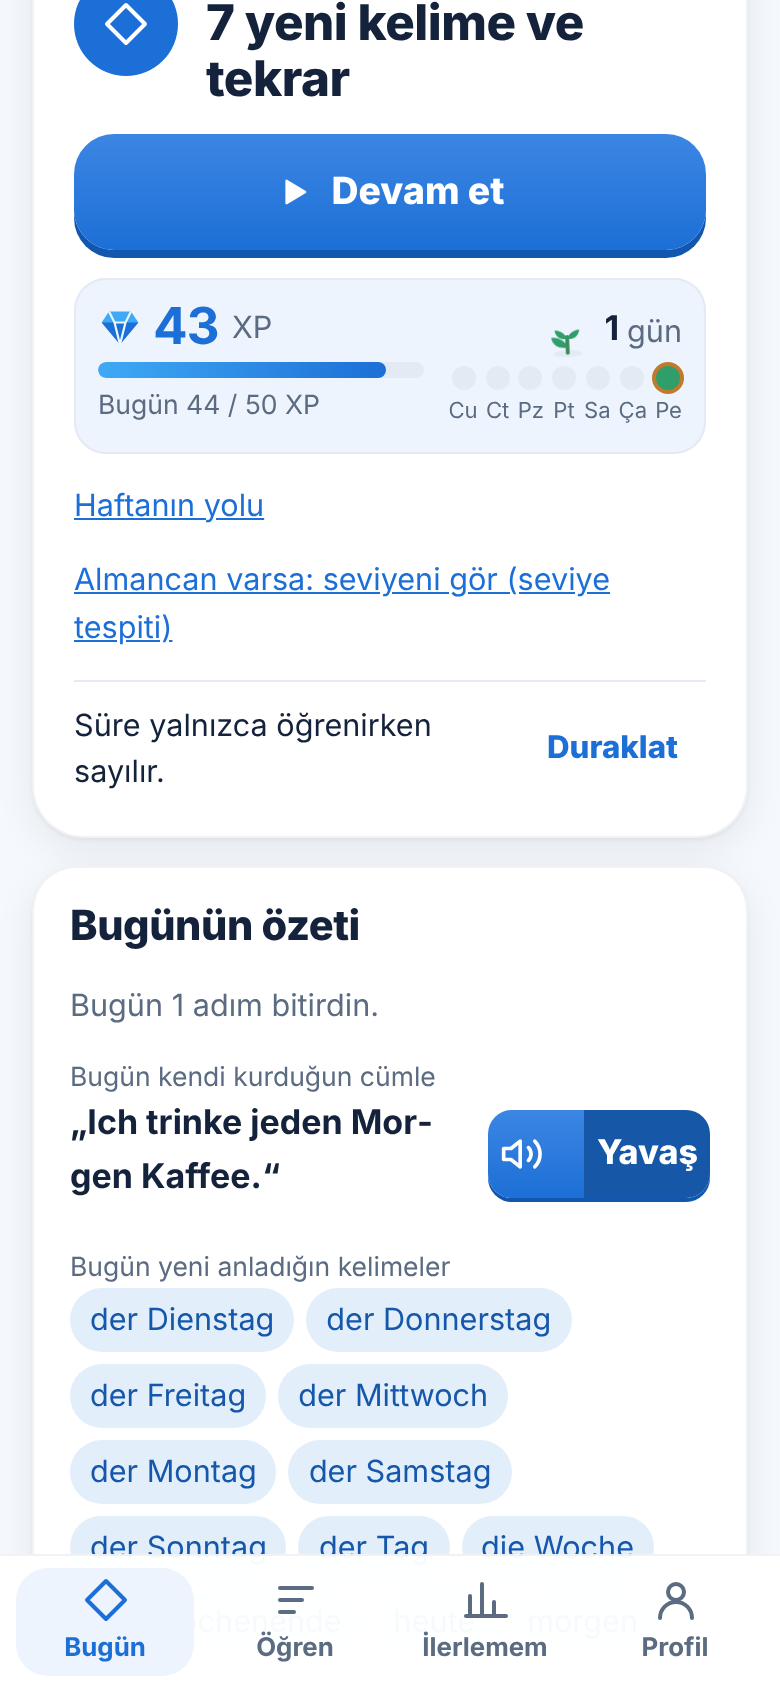
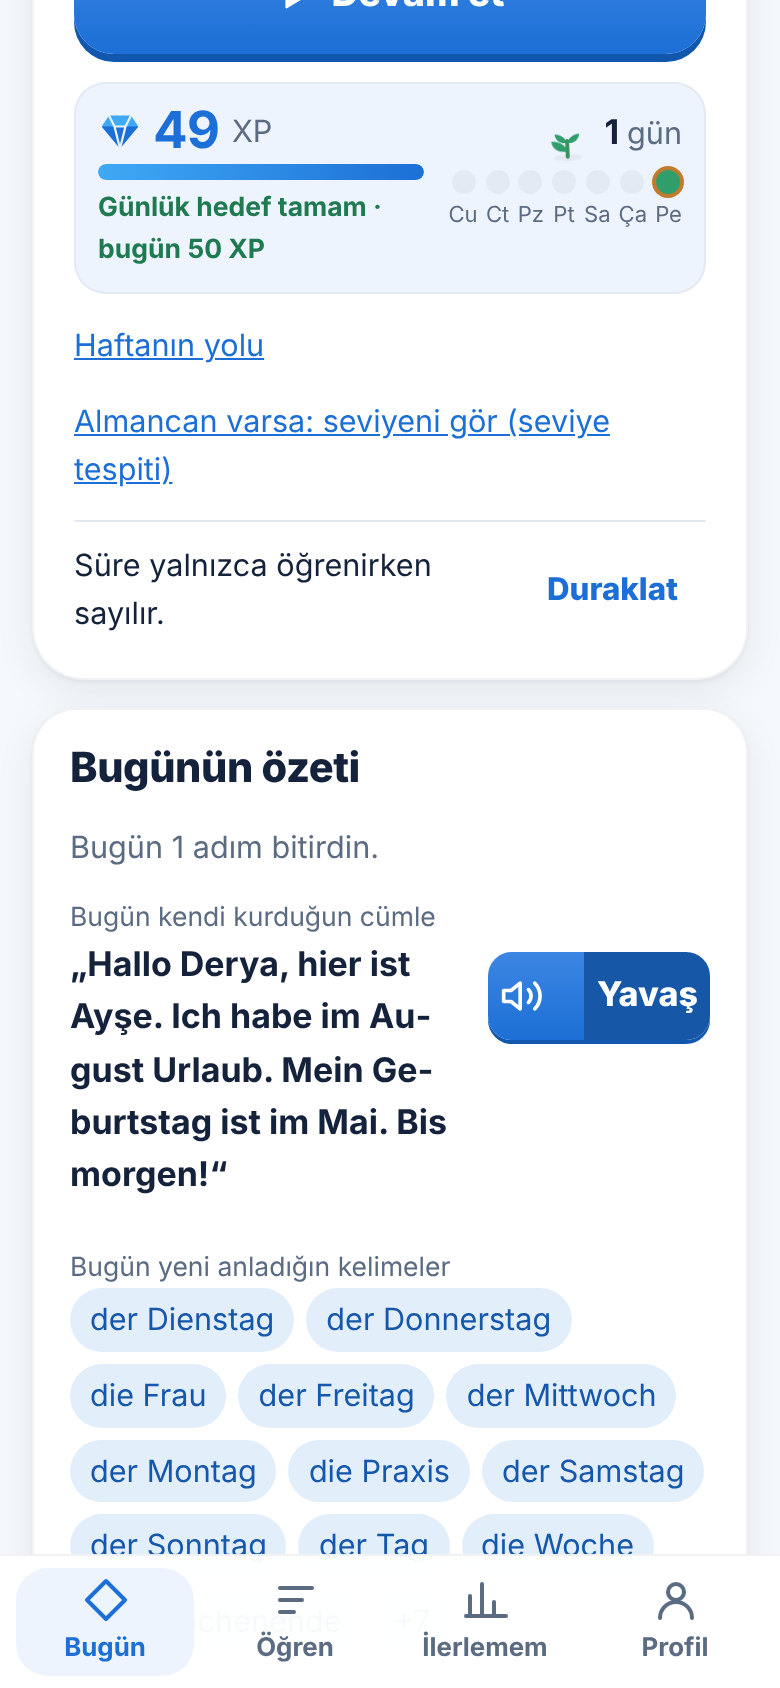
M1 B3: inceleme #93 1. tur — gün sonuna yalnızca doğrulanmış cümle, 'N. gün bitti' ve kutlama günün bitiş kaydına bağlı, bırakma noktası DOM gözcüsüyle (zamanlayıcı yok), e2e tam nokta ve kontrolden geçen mesajı ölçer; ekran görüntüleri yenilendi
#58 B3 · PM-052 A.8 · İmza: A4, D15

Claude-Session: https://claude.ai/code/session_016gishG3oMjbKiLi4Fij94B

diff --git a/web/src/services/kullanim.ts b/web/src/services/kullanim.ts
@@ -50,22 +50,22 @@ export function kullanimIzle(rota: () => { name: string; id?: string; day?: numb
   void temizle();
   let gizlendi = 0;
   let onceki = rotaAdimi(rota());
-  // nokta önbelleği: rota olayı geldiğinde yeni ekran çoktan çizilmiş olabilir; adım ekranındayken saniyede bir ve her
-  // dokunuştan sonra okunur
+  // nokta önbelleği: rota olayı geldiğinde yeni ekran çoktan çizilmiş olabilir; ilerleme çubuğu ya da ekran konumu her
+  // değiştiğinde (MutationObserver) okunur — zamanlayıcı yok, nokta bir geride kalmaz (inceleme #93 P1-4)
   let sonNokta: string | undefined;
-  const oku = () => { if (onceki) { const n = ekranNoktasi(); if (n) sonNokta = n; } };
-  const zaman = setInterval(oku, 1000);
-  const dokun = () => setTimeout(oku, 300);
+  // yalnızca adres hâlâ bu adımdaysa: başka adım ekranına geçerken yeni ekranın sayısı eski adıma yazılmaz
+  const oku = () => { if (onceki && rotaAdimi(rota()) === onceki) { const n = ekranNoktasi(); if (n) sonNokta = n; } };
+  const gozcu = typeof MutationObserver !== "undefined" ? new MutationObserver(oku) : null;
+  gozcu?.observe(document.body, { subtree: true, childList: true, attributes: true, attributeFilter: ["aria-valuenow", "data-pos"] });
   const cik = (adim: string | null, nokta?: string) => { if (adim) void kullanimYaz({ t: "cik", adim, nokta }); };
-  const rotaDegisti = () => { const yeni = rotaAdimi(rota()); if (yeni === onceki) return; cik(onceki, sonNokta); onceki = yeni; sonNokta = undefined; };
+  const rotaDegisti = () => { const yeni = rotaAdimi(rota()); if (yeni === onceki) return; cik(onceki, sonNokta); onceki = yeni; sonNokta = undefined; oku(); };
   const gorunurluk = () => {
     if (document.visibilityState === "hidden") { gizlendi = Date.now(); oku(); cik(onceki, sonNokta); }
     else if (gizlendi && Date.now() - gizlendi > 30 * 60_000) void kullanimYaz({ t: "ac" });
   };
   addEventListener("hashchange", rotaDegisti, true);
-  addEventListener("pointerup", dokun, true);
   document.addEventListener("visibilitychange", gorunurluk);
-  return () => { clearInterval(zaman); removeEventListener("hashchange", rotaDegisti, true); removeEventListener("pointerup", dokun, true); document.removeEventListener("visibilitychange", gorunurluk); };
+  return () => { gozcu?.disconnect(); removeEventListener("hashchange", rotaDegisti, true); document.removeEventListener("visibilitychange", gorunurluk); };
 }
 
 async function temizle() {

diff --git a/web/src/ui/gunsonu.tsx b/web/src/ui/gunsonu.tsx
@@ -4,23 +4,15 @@
  */
 import { useEffect, useState } from "preact/hooks";
 import type { Plan } from "../screens/Yol.tsx";
-import { getMeta, setMeta, tanitilanlar } from "../data/db.ts";
+import { getMeta, metaPrefix, setMeta, tanitilanlar } from "../data/db.ts";
 import { loadLexicon } from "../services/content.ts";
 import { kullanimGunleri, kullanimOku } from "../services/kullanim.ts";
-import { adimEtiketi, gununCumlesi, type KullanimOzet } from "../core/kullanim.ts";
+import { adimEtiketi, bugunBitenGun, gununCumlesi, type KullanimOzet } from "../core/kullanim.ts";
 import { yerelGun } from "../core/gun.ts";
 import { ListenButton } from "./kit.tsx";
 import { Kutlama } from "./solen.tsx";
 
 const KELIME_SINIR = 12;
-
-/** Bugün biten M1 günü: günün hazır adımlarından biri bugün bitirildiyse ve gün bittiyse (en büyük gün) */
-export function bugunBitenGun(plan: Plan | null, bitenler: string[]): number | null {
-  if (!plan) return null;
-  const bitti = (a: { id: string; tur: string }) => bitenler.includes(a.id) || bitenler.includes(`${a.tur}:${a.id}`);
-  const g = plan.gunler.filter((x) => x.durum === "bitti" && x.adimlar.some((a) => a.hazir && bitti(a))).map((x) => x.day);
-  return g.length ? Math.max(...g) : null;
-}
 
 export function GunSonu({ plan }: { plan: Plan | null }) {
   const [oz, setOz] = useState<KullanimOzet | null>(null);
@@ -44,7 +36,9 @@ export function GunSonu({ plan }: { plan: Plan | null }) {
     })().catch(() => { /* özet isteğe bağlı: hata ekranı göstermez */ });
     return () => { iptal = true; };
   }, [bugun]);
-  const gun = oz ? bugunBitenGun(plan, oz.bitenler) : null;
+  const [bitisler, setBitisler] = useState<Record<number, string | undefined> | null>(null);
+  useEffect(() => { void metaPrefix<string>("m1:gun:").then((x) => setBitisler(Object.fromEntries(x.map((k) => [Number(k.key.slice(7)), k.value])))); }, [plan]);
+  const gun = oz && bitisler && oz.bitenler.length ? bugunBitenGun(plan?.gunler ?? [], bitisler, bugun) : null;
   // kutlama bir kez: gün bittiğinde ilk görüşte (aynı gün yeniden açılınca yok)
   useEffect(() => {
     if (!gun) return;

diff --git a/web/src/screens/Garden.tsx b/web/src/screens/Garden.tsx
@@ -185,7 +185,6 @@ function Question({ q, l, all, onDone }: { q: GardenQ; l: Lexeme; all: Lexeme[];
       const c = ownSentenceCheck(l, a);
       // kısa cümle yeniden yazdırılır (ceza yok); kelimeyi göremediysek yalnızca not düşer, karar öğrencinin (inceleme #59 P1-1)
       if (c === "short") { setShortNote(true); return; }
-      void cumleKaydet(a, "bahce"); // #58 B3: gün sonunda "bugün kurduğun cümle"
       setOwnNote(c === "missing"); setSelfCheck(a); return;
     }
     const acc = accepted(l, q.type, q.ex);
@@ -216,7 +215,10 @@ function Question({ q, l, all, onDone }: { q: GardenQ; l: Lexeme; all: Lexeme[];
           {ownNote && <div class="small" data-test="own-missing">Cümlende bu kelimeyi göremedim. Çekimli hâlini kullandıysan doğru olabilir.</div>}
           Cümlen kelimeyi doğru kullanıyor mu? Bir kez yüksek sesle oku.{ex && <> Örnek: <span lang="de">{ex.de}</span></>}</FeedbackBand></section>
       <ActionBar>
-        <button class="btn primary block" data-test="own-ok" onClick={() => onDone({ ok: true, answer: selfCheck }, "hinted")}>Evet, doğru kurdum</button>
+        <button class="btn primary block" data-test="own-ok" onClick={() => {
+          // #58 B3: gün sonu özetine yalnızca öğrencinin doğru dediği ve kelimesi görünen cümle (inceleme #93 P1-3)
+          if (selfCheck && !ownNote) void cumleKaydet(selfCheck, "bahce");
+          onDone({ ok: true, answer: selfCheck }, "hinted"); }}>Evet, doğru kurdum</button>
         <button class="btn block" data-test="own-unsure" onClick={() => onDone({ ok: true, answer: selfCheck }, null)}>Emin değilim, geç</button>
       </ActionBar>
     </div>

diff --git a/web/src/core/kullanim.test.ts b/web/src/core/kullanim.test.ts
@@ -1,5 +1,5 @@
 import { describe, expect, it } from "vitest";
-import { adimEtiketi, eskiMi, gununCumlesi, olayEkle, ozetle, rotaAdimi, KULLANIM_SINIR, type KullanimGun } from "./kullanim.ts";
+import { adimEtiketi, bugunBitenGun, eskiMi, gununCumlesi, olayEkle, ozetle, rotaAdimi, KULLANIM_SINIR, type KullanimGun } from "./kullanim.ts";
 
 const at = "2026-11-19T10:00:00Z";
 const bos = (): KullanimGun => ({ gun: "2026-11-19", olaylar: [] });
@@ -47,5 +47,12 @@ describe("yerel kullanım ölçümü (#58 B3)", () => {
     expect(eskiMi("2026-10-01", now)).toBe(true);
     expect(eskiMi("2026-11-10", now)).toBe(false);
     expect(eskiMi("bozuk", now)).toBe(true);
+  });
+  it("gün sonu başlığı: yalnızca bugün biten gün; eski günün adımını bugün tekrar etmek 'N. gün bitti' demez", () => {
+    const gunler = [{ day: 1, durum: "bitti" }, { day: 2, durum: "bitti" }, { day: 3, durum: "simdi" }];
+    const dun = new Date(2026, 10, 18, 10).toISOString(), bugunIso = new Date(2026, 10, 19, 10).toISOString();
+    expect(bugunBitenGun(gunler, { 1: dun, 2: dun }, "2026-11-19")).toBeNull();
+    expect(bugunBitenGun(gunler, { 1: dun, 2: bugunIso }, "2026-11-19")).toBe(2);
+    expect(bugunBitenGun(gunler, { 1: dun }, "2026-11-19")).toBe(2); // kaydı henüz yazılmamış bitmiş gün
   });
 });

diff --git a/web/src/core/kullanim.ts b/web/src/core/kullanim.ts
@@ -90,3 +90,14 @@ export function eskiMi(gun: string, now = new Date()): boolean {
   if (!y || !m || !d) return true;
   return (now.getTime() - new Date(y, m - 1, d).getTime()) / 86400_000 > KULLANIM_GUN;
 }
+
+/**
+ * Bugün biten M1 günü: gün bitmiş ve bitiş kaydı (`m1:gun:<gün>`, ilk bitişte yazılır) bugünün tarihini taşıyor; kaydı henüz
+ * olmayan bitmiş gün de bugün biter (plan şu an yazıyor). Eski bir günün adımını bugün tekrar etmek "N. gün bitti" demez
+ * (inceleme #93 P1-2). En büyük gün döner.
+ */
+export function bugunBitenGun(gunler: { day: number; durum: string }[], bitisler: Record<number, string | undefined>, bugun: string): number | null {
+  const yerel = (iso: string) => { const d = new Date(iso); return `${d.getFullYear()}-${String(d.getMonth() + 1).padStart(2, "0")}-${String(d.getDate()).padStart(2, "0")}`; };
+  const g = gunler.filter((x) => x.durum === "bitti" && (!bitisler[x.day] || yerel(bitisler[x.day]!) === bugun)).map((x) => x.day);
+  return g.length ? Math.max(...g) : null;
+}

diff --git a/web/src/screens/Okuma.tsx b/web/src/screens/Okuma.tsx
@@ -146,7 +146,7 @@ function Yaz({ o, yazi, setYazi, kontrol, setKontrol, onNext }: { o: OkumaYazmaT
       )}
       <ActionBar>
         {!kontrol || kontrol.eksik.length > 0
-          ? <button class="btn primary block" data-test="yazi-kontrol-et" disabled={!yazi.trim()} onClick={() => { setKontrol(yazmaKontrol(yazi, y)); void cumleKaydet(yazi, "yazma"); }}>Kontrol et</button>
+          ? <button class="btn primary block" data-test="yazi-kontrol-et" disabled={!yazi.trim()} onClick={() => { const k = yazmaKontrol(yazi, y); setKontrol(k); if (k.tamam) void cumleKaydet(yazi, "yazma"); /* yalnızca kontrolden geçen mesaj (inceleme #93 P1-3) */ }}>Kontrol et</button>
           : <button class="btn primary block" data-test="next" onClick={onNext}>Örnek cevabı gör</button>}
         {kontrol && kontrol.eksik.length > 0 && <button class="btn block ghost" data-test="yine-de" onClick={onNext}>Yine de örnek cevabı gör</button>}
       </ActionBar>

diff --git a/tests/e2e/v2_gunsonu.py b/tests/e2e/v2_gunsonu.py
@@ -27,7 +27,11 @@ def bahce_tur(pg, bitir=True, adim=4):
             # "kendi cümleni kur": iki kelime kısa sayılır → üç kelimelik cümle (gün sonu özetine gider)
             if pg.locator("[data-test=own-short]").count():
                 pg.fill("[data-test=answer]", "Ich trinke jeden Morgen Kaffee."); pg.click("[data-test=submit]"); pg.wait_for_selector("[data-test=gq-own-check]")
-            if pg.locator("[data-test=gq-own-check]").count(): pg.click("[data-test=own-unsure]"); pg.wait_for_timeout(200); k += 1; continue
+            if pg.locator("[data-test=gq-own-check]").count():
+                # "Emin değilim, geç" de soruyu ilerletir: sonraki soru çizilene kadar beklenir (nokta denetimi tam değeri ister)
+                old = pg.inner_text("[data-test=garden] .pbar"); pg.click("[data-test=own-unsure]"); k += 1
+                pg.wait_for_function("(o) => document.querySelector('[data-test=garden-done]') || document.querySelector('[data-test=garden-again]') || (document.querySelector('[data-test=garden] .pbar')||{}).innerText !== o", arg=old)
+                continue
         pg.wait_for_selector("[data-test=next]")
         old = pg.inner_text("[data-test=garden] .pbar")
         pg.click("[data-test=next]"); k += 1
@@ -50,19 +54,25 @@ def main():
         pg.on("request", lambda r: istek.append(r.url) if r.method != "GET" else None)
         pg.goto(base + "#/profile"); pg.wait_for_selector("[data-test=kullanim]")
         k = pg.inner_text("[data-test=kullanim]")
-        check("Yarıda: Kelime Bahçesi (1. gün)" in k and "/" in k.split("Yarıda: Kelime Bahçesi (1. gün)")[1][:12], f"bırakma noktası kayıtlı ({k[-120:]!r})")
+        # 3 cevaptan sonra ekranda 4. soru vardı: nokta tam olarak "(4/…)" (inceleme #93 P1-4)
+        check("Yarıda: Kelime Bahçesi (1. gün) (4/" in k, f"bırakma noktası ekrandaki soru ({k[-120:]!r})")
         check("açılış" in k, "açılış sayılıyor")
         no_overflow(pg, "Profil kullanım")
         # bitir: Bahçe turu, sonra okuma ve yazma (kendi cümlesi)
         pg.goto(base + "#/garden/1"); pg.wait_for_selector("[data-test=garden]")
         check(bahce_tur(pg, bitir=True), "Bahçe turu bitti")
-        pg.goto(base + "#/okuma/1"); pg.wait_for_selector("[data-test=okuma-metin]")
-        v2_okuma.walk(pg)
+        # yazma görevi: eksik taslak gün sonuna girmez, kontrolden geçen mesaj girer (inceleme #93 P1-3)
+        pg.goto(base + "#/okuma/2"); pg.wait_for_selector("[data-test=okuma-metin]"); pg.click("[data-test=next]")
+        v2_okuma.sorular(pg); pg.wait_for_selector("[data-test=okuma-yaz]")
+        pg.fill("[data-test=yazi]", "Hallo Derya, hier ist Ayşe. Bis morgen!"); pg.click("[data-test=yazi-kontrol-et]"); pg.wait_for_selector("[data-test=yazi-kontrol]")
+        pg.fill("[data-test=yazi]", "Hallo Derya, hier ist Ayşe. Ich habe im August Urlaub. Mein Geburtstag ist im Mai. Bis morgen!")
+        pg.click("[data-test=yazi-kontrol-et]"); pg.wait_for_selector("[data-test=yazi-kontrol]")
         pg.goto(base + "#/today"); pg.wait_for_selector("[data-test=gun-sonu]", timeout=10000)
         g = pg.inner_text("[data-test=gun-sonu]")
         check("adım bitirdin" in g, f"gün sonu kartı: biten adım ({g[:80]!r})")
         check(pg.locator("[data-test=gun-sonu-kelimeler] .cip").count() >= 1, "bugün yeni anladığın kelimeler (çip)")
-        check(pg.locator("[data-test=gun-sonu-cumle]").count() == 1 and pg.locator("[data-test=gun-sonu-cumle] [lang=de]").count() == 1, "bugün kendi kurduğun cümle (Bahçe ya da yazma görevi)")
+        cm = pg.inner_text("[data-test=gun-sonu-cumle]") if pg.locator("[data-test=gun-sonu-cumle]").count() else ""
+        check("Urlaub" in cm and "Bis morgen!“" not in cm.split("Urlaub")[0][-5:], f"bugün kendi kurduğun cümle: kontrolden geçen mesaj, eksik taslak değil ({cm[:70]!r})")
         no_overflow(pg, "Bugün gün sonu")
         if shots: pg.locator("[data-test=gun-sonu]").scroll_into_view_if_needed(); shot(pg, "g01-gun-sonu", full=False)
         pg.goto(base + "#/profile"); pg.wait_for_selector("[data-test=kullanim]")

diff --git a/docs/v2/DECISIONS.md b/docs/v2/DECISIONS.md
@@ -93,4 +93,4 @@ Biçim: **Kimlik · tarih · karar** — gerekçe. Kaynak: proje sahibi (PS) ya 
 - **D-106 · 2026-11-19 · Bahçe boşluk ipucu ve eş anlamlı kabul (PM 7004537514-2; İÇ 7003635425-2/-3).** `forms[].hint_tr` soru sırasında görünmez: "İpucu" düğmesiyle açılırsa cevap `hinted` sayılır; yanlış cevaptan sonra açıklama olarak gösterilir. `forms[].also_ok: string[]` boşluğa giren eş anlamlı başka doğru cevaplardır (kriegen/bekommen, deshalb/deswegen); kelime ve bütün cümle biçimleriyle kabul edilir. Doğrulayıcı uyarısı: aynı boşluk cümlesi ve çevirisi farklı kartlarda farklı cevapla geçiyorsa (also_ok ile birleştir ya da cümleyi ayır); also_ok cevabın kendisini tekrar ediyorsa.
 - **D-107 · 2026-11-19 · Şölen 1: cevap anı, ilerleme, XP ve seri, kutlama (#58 B10, PM-059).** Doğru cevapta yeşile yumuşak geçiş, yaylanan onay işareti, WebAudio ile üretilen kısa ton (dosya yok), "+N XP" uçuşu, 3+ üst üste rozeti; yanlışta hafif sallanma ve sakin mercan tonu (bordo kalktı). Üstte dolan ilerleme çubuğu (sayı ekran okuyucuda). Bugün'de mücevherli XP sayacı (sayarak artar), günlük hedef çubuğu (50 XP, gösterge), filizli seri ve 7 günlük noktalar. Tur ve ders sonunda CSS konfeti (1–2 sn) + özet (doğru, XP, öğrenilen kelime çipleri, seri, yarın). Profil: "Efekt sesleri" (`ui.sfx`) ve "Kutlama animasyonları" (`ui.celebrations`). `prefers-reduced-motion`: animasyon yok, içerik ve renk aynı. Hiçbir animasyon cevabı geciktirmez ("Devam" ≤ 400 ms içinde basılabilir; e2e ölçer). Yeni bağımlılık yok; çizimler özgün (mücevher, filiz). XP miktarları D-102'deki gibi (doğru 2, adım 10). **İnceleme #87 1. tur sonrası:** (a) geçiş animasyonları yalnızca opaklık (transform, sabit eylem çubuğunu kaydırıyordu); (b) "+XP" cevap anında uçar (`dw:xp-ucus`, miktar ekrandan `CevapXp` bağlamıyla: tekrar çalışmada ve daha önce XP almış soruda 0), kayıt yine "Devam"da; (c) günlük hedef aşılınca "Günlük hedef tamam · N XP" (oran yazılmaz; RQ-Ş24). 50 XP bilerek küçük bir alışkanlık hedefidir; (d) yanlışta önce doğrusu (metin renginde, büyük), açıklama, en sonda öğrencinin cevabı; Bahçe'de örnek cümle hemen üstteki kartta; (e) AA kontrast: mercan `#a63d1f` (5,5:1), doğru bandı koyu yeşil, işaret ve rozet koyu zemin; (f) "üst üste" ekran değişince sıfırlanır, rapor/kontrol bantları sayılmaz; bitmiş ders yeniden açılınca kutlama yok; ilerleme bitmiş madde sayısıdır (ders madde bazlı); iOS ses kilidi ilk dokunuşta açılır.
 - **D-108 · 2026-11-19 · Doğrulayıcı: içerik güvenliği ve kart kuralları (#58 B4, #54 D16; inceleme #88 1. tur sonrası).** (1) **İçerik güvenliği süzgeci** öğrenciye görünen bütün metinleri tarar: kartlar, kalıplar, senaryolar, temel dersler, M1 günleri, dünya, seviye tespiti bankası, dilbilgisi notları, alanlar. Dört tür: *kaba/hakaret* (DE+TR; Almanca kök kelimenin içinde de aranır: Hundescheiße, Scheißkerl; Türkçe, Türkçe küçük harfle: İbne), *şiddet* (töten, erschossen, Mord, Leiche…), *aşırıcılık* (her yerde hata), *hassas* (siyaset, intihar, uyuşturucu, savaş; uyarı). Kaba ve şiddet aktif içerikte **hata**. Yalnızca tanıma kartında (`tier: passive`) kalabilir: öğrenci duyduğunu anlasın, kendisi kullanmasın. Kartın Türkçe açıklamasında kullanım uyarısı varsa sessiz, yoksa uyarı. Almanca kalıplar Türkçe açıklama alanlarında aranmaz ("Scheiße deme, So ein Mist de" üst dildir). Deyim ve fiil ayrımı: "bringt mich um" (sırtım beni öldürüyor) ve "Krieg ich…?" (kriegen) yakalanmaz. (2) **Üretim havuzu:** *bütün* pasif (yalnızca tanıma) kartlar M1 `yeni_kartlar`, senaryo temel öğesi ve K1 çekirdeğinde olamaz (hata; 2. tur); kelimenin kendisi kabul cevabına, alıştırmaya ya da provaya girerse aktif metin taramasıyla hata. Önceki "pasif kartta forms hata" kuralı kaldırıldı: `forms` üretime sokmaz, çekimli biçimi tanımak (umgebracht) anlamak için gerekir. (3) K1 isimde `forms`, K1'de 3+ eşdizim, somut kelimede örnek başına `img`: sayılı uyarı; `content/tools/b4-taban.json` bugünkü sayıları (46/119/167) taban tutar, sayı tabanı aşarsa **hata**. Taban içerik düzeldikçe elle düşer; 0 olunca kural kalıcı hatadır. `hassas_onay`: incelenmiş hassas konu uyarıları kapanır (kimlik ve gerekçe #12'de). **2. tur:** şiddet kalıbında "um" yalnızca cümle sonunda ("Ich bringe sie um acht…" saat bildirir), `töten` yalnızca ö/oe (der tote Winkel değil); kelime başı kaba kökler (Arsch-, Kanake, Fresse; Marsch/Barsch/Warschau değil); "bomba gibi" deyimi şiddet değil; kullanım uyarısı kelime sınırıyla (ödeme, kargo değil).
-- **D-109 · 2026-11-19 · Gün sonu özeti ve yerel kullanım ölçümü (#58 B3, PM-052 A.8).** (1) **Ölçüm yalnızca cihazda:** `meta` → `kullanim:<YYYY-MM-DD>` olay listesi (günde en çok 300; 30 günden eskisi açılışta silinir). Hiçbir sunucuya, yapay zekâya ya da analitik servisine gitmez; e2e ağ isteği olmadığını denetler. Olaylar: açılış (yükleme ve 30 dk'dan uzun aradan sonra görünür olma), adım ekranından çıkış ve noktası (üst ilerleme çubuğundaki "7/20" ya da ekran konumu; saniyede bir ve her dokunuştan sonra okunur), adım bitişi (`adimXpVer` her çağrıda; XP yine bir kez), öğrencinin kendi kurduğu cümle (Bahçe "kendi cümleni kur", yazma görevi, provada anlaşılan cevap). Bırakma noktası: son olayı çıkış olan ve sonra bitmeyen adım. (2) **Gün sonu özeti** Bugün'de, o gün en az bir adım bitince: biten adım sayısı, günün cümlesi (en uzun; dinlenebilir), bugün ilk kez tanıtılan kelimeler (çip, en çok 12). Bir M1 günü bugün bittiyse başlık "N. gün bitti" ve bir kez kutlama (aynı gün yeniden açılınca konfeti yok). (3) **Profil > Kullanımım:** son 7 gün (açılış, biten adım, "Yarıda: <adım> (nokta)"). Öğretmen gözü: hangi adımda bırakıldığı içerik ve tempo kararlarına girer; öğrenciye de kendi ritmini gösterir.
+- **D-109 · 2026-11-19 · Gün sonu özeti ve yerel kullanım ölçümü (#58 B3, PM-052 A.8).** (1) **Ölçüm yalnızca cihazda:** `meta` → `kullanim:<YYYY-MM-DD>` olay listesi (günde en çok 300; 30 günden eskisi açılışta silinir). Hiçbir sunucuya, yapay zekâya ya da analitik servisine gitmez; e2e ağ isteği olmadığını denetler. Olaylar: açılış (yükleme ve 30 dk'dan uzun aradan sonra görünür olma), adım ekranından çıkış ve noktası (üst ilerleme çubuğundaki "7/20" ya da ekran konumu; saniyede bir ve her dokunuştan sonra okunur), adım bitişi (`adimXpVer` her çağrıda; XP yine bir kez), öğrencinin kendi kurduğu cümle (Bahçe "kendi cümleni kur", yazma görevi, provada anlaşılan cevap). Bırakma noktası: son olayı çıkış olan ve sonra bitmeyen adım. (2) **Gün sonu özeti** Bugün'de, o gün en az bir adım bitince: biten adım sayısı, günün cümlesi (en uzun; dinlenebilir), bugün ilk kez tanıtılan kelimeler (çip, en çok 12). Bir M1 günü bugün bittiyse başlık "N. gün bitti" ve bir kez kutlama (aynı gün yeniden açılınca konfeti yok). (3) **Profil > Kullanımım:** son 7 gün (açılış, biten adım, "Yarıda: <adım> (nokta)"). Öğretmen gözü: hangi adımda bırakıldığı içerik ve tempo kararlarına girer; öğrenciye de kendi ritmini gösterir. **İnceleme #93 1. tur sonrası:** gün sonuna yalnızca doğrulanmış cümle girer (Bahçe'de öğrencinin "Evet, doğru kurdum" dediği ve kelimesi görünen cümle, kontrolden geçen yazma mesajı, provada anlaşılan cevap); "N. gün bitti" ve kutlama yalnızca günün bitiş kaydı (`m1:gun:<gün>`) bugünü gösteriyorsa (eski günün adımını tekrar etmek kutlanmaz); bırakma noktası ilerleme çubuğu değiştikçe okunur (MutationObserver; zamanlayıcı yok), yalnızca adres hâlâ o adımdayken.
